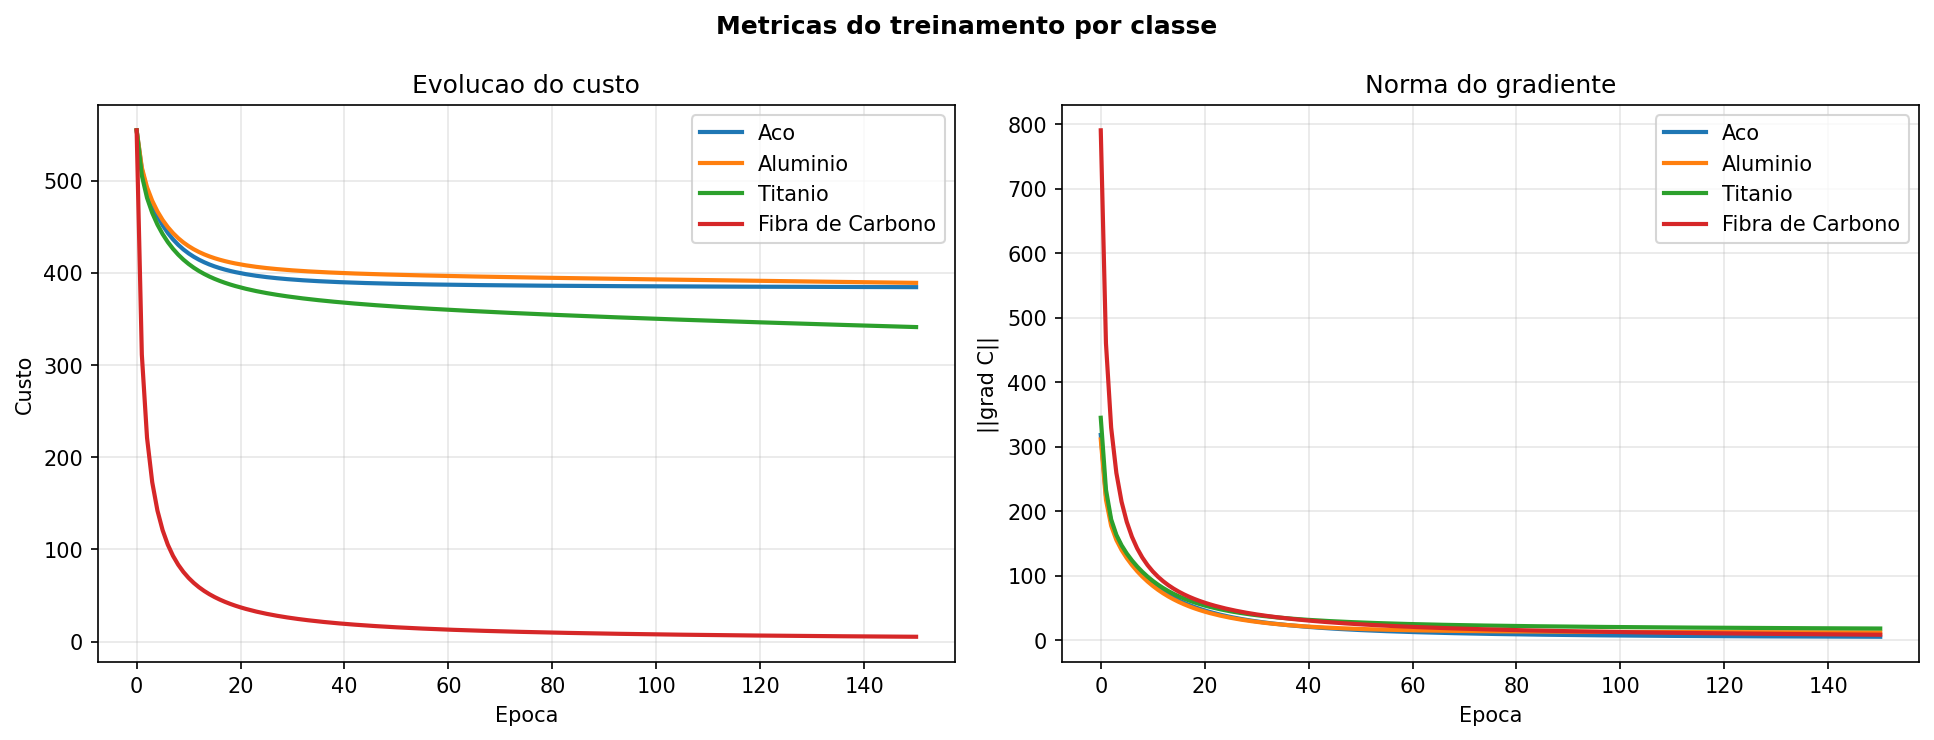
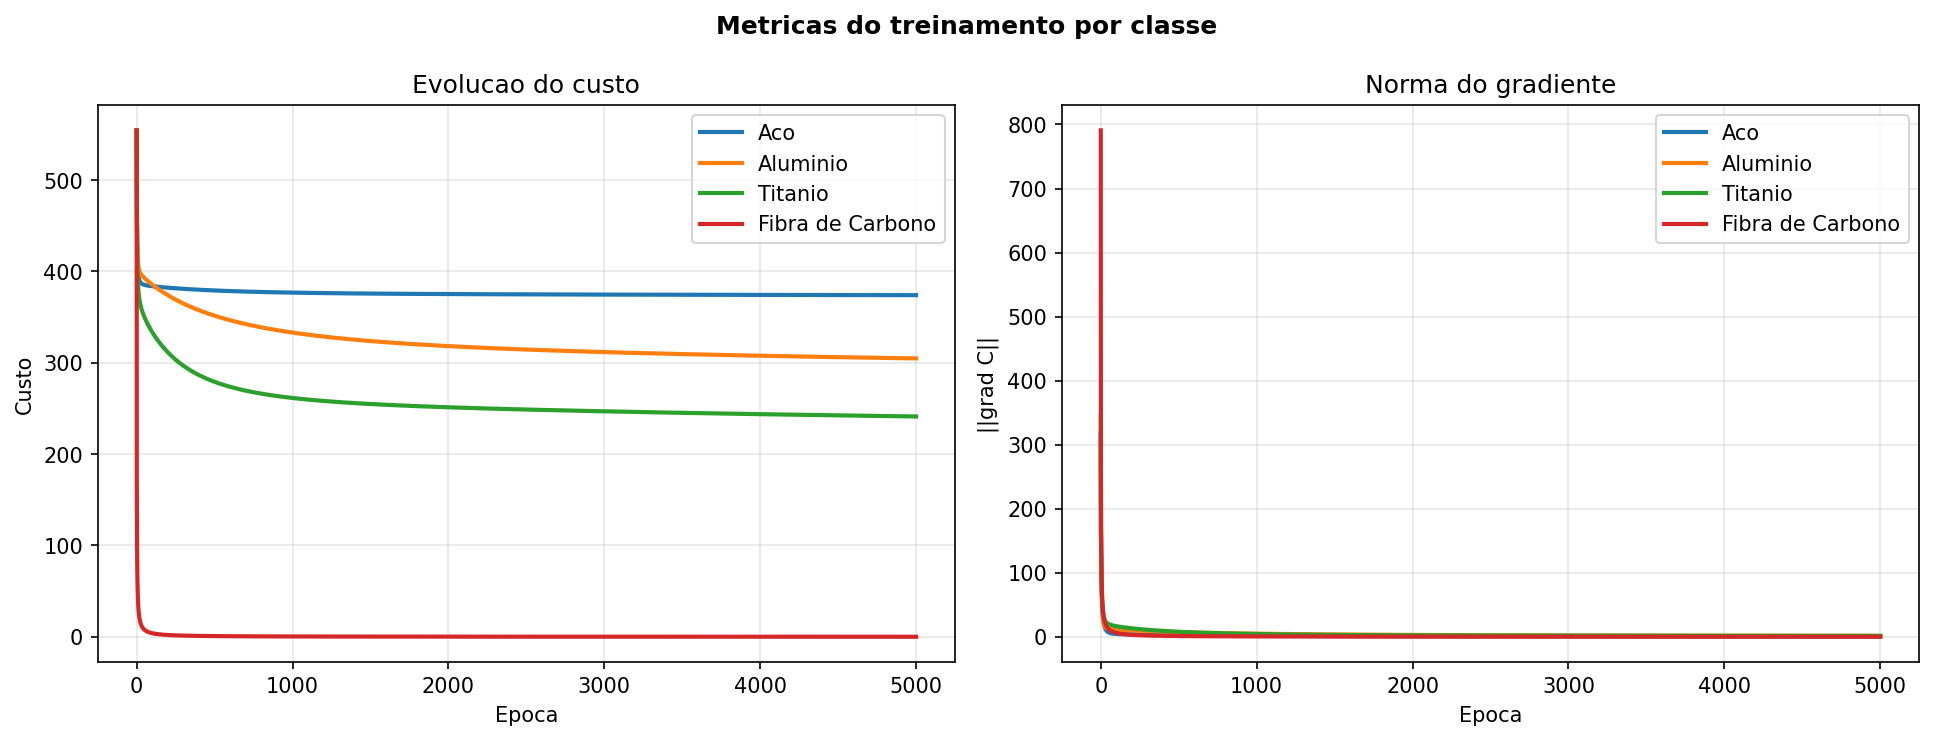
adicionada visualização dos gradientes + todos os pesos para cada material + otimização geral do código

diff --git a/visualizacao_perceptron.py b/visualizacao_perceptron.py
@@ -89,46 +89,83 @@ def plotar_metricas(
     return fig, (ax_custo, ax_grad)
 
 
-def plotar_trajetoria_pesos(
+def plotar_componentes_gradiente(
     historico,
-    indices_pesos=(0, 1),
     nomes_features=None,
-    titulo="Trajetoria no espaco de pesos",
+    incluir_vies=True,
+    titulo="Componentes do gradiente",
     caminho_arquivo=None,
     mostrar_graficos=False,
 ):
     """
-    Plota a trajetoria de dois pesos escolhidos ao longo do treino.
+    Plota cada componente do gradiente ao longo das epocas.
+
+    Esse grafico complementa a norma do gradiente, permitindo observar
+    sinal, magnitude e ritmo de convergencia de cada derivada parcial.
     """
+    epocas = np.asarray(historico["epocas"])
+    grad_w = np.asarray(historico["grad_w"])
+
+    if grad_w.ndim != 2:
+        raise ValueError("O historico de gradientes precisa ter shape (epocas, n_features).")
+
+    nomes_componentes = _resolver_nomes_features(grad_w.shape[1], nomes_features)
+    fig, ax = plt.subplots(figsize=(9, 5.5))
+
+    if incluir_vies:
+        grad_w0 = np.asarray(historico["grad_w0"])
+        ax.plot(epocas, grad_w0, linewidth=2.2, label="grad w0")
+
+    for indice, nome in enumerate(nomes_componentes):
+        ax.plot(epocas, grad_w[:, indice], linewidth=1.8, label=f"grad {nome}")
+
+    ax.axhline(0.0, color="black", linewidth=1.0, alpha=0.45)
+    ax.set_title(titulo)
+    ax.set_xlabel("Epoca")
+    ax.set_ylabel("Valor da derivada")
+    ax.grid(True, alpha=0.3)
+    ax.legend(ncol=2 if len(nomes_componentes) <= 5 else 3, fontsize=9)
+
+    fig.tight_layout()
+    _salvar_figura(fig, caminho_arquivo, mostrar_graficos=mostrar_graficos)
+    return fig, ax
+
+
+def plotar_evolucao_pesos(
+    historico,
+    nomes_features=None,
+    incluir_vies=True,
+    titulo="Evolucao dos pesos",
+    caminho_arquivo=None,
+    mostrar_graficos=False,
+):
+    """
+    Plota todos os pesos ao longo das epocas.
+
+    Diferente da trajetoria 2D, este grafico mostra explicitamente como
+    cada parametro evolui durante o treinamento.
+    """
+    epocas = np.asarray(historico["epocas"])
     pesos = np.asarray(historico["w"])
-    idx_i, idx_j = indices_pesos
 
     if pesos.ndim != 2:
         raise ValueError("O historico de pesos precisa ter shape (epocas, n_features).")
-    if idx_i == idx_j:
-        raise ValueError("Escolha dois pesos diferentes para a trajetoria 2D.")
-    if idx_i < 0 or idx_j < 0 or idx_i >= pesos.shape[1] or idx_j >= pesos.shape[1]:
-        raise IndexError("Indices de pesos fora do intervalo valido.")
 
-    nomes_eixos = _resolver_nomes_features(pesos.shape[1], nomes_features)
-    traj_x = pesos[:, idx_i]
-    traj_y = pesos[:, idx_j]
+    nomes_componentes = _resolver_nomes_features(pesos.shape[1], nomes_features)
+    fig, ax = plt.subplots(figsize=(9, 5.5))
 
-    fig, ax = plt.subplots(figsize=(6.5, 5.5))
-    ax.plot(traj_x, traj_y, color="#1f77b4", linewidth=1.8)
-    ax.scatter(traj_x[0], traj_y[0], color="#2ca02c", s=70, label="Inicio", zorder=3)
-    ax.scatter(traj_x[-1], traj_y[-1], color="#d62728", s=70, label="Fim", zorder=3)
+    if incluir_vies:
+        vies = np.asarray(historico["w0"])
+        ax.plot(epocas, vies, linewidth=2.2, label="w0")
 
-    for k, (x_k, y_k) in enumerate(zip(traj_x, traj_y)):
-        if k in (0, len(traj_x) - 1):
-            continue
-        ax.scatter(x_k, y_k, color="#1f77b4", s=16, alpha=0.55)
+    for indice, nome in enumerate(nomes_componentes):
+        ax.plot(epocas, pesos[:, indice], linewidth=1.8, label=nome)
 
     ax.set_title(titulo)
-    ax.set_xlabel(nomes_eixos[idx_i])
-    ax.set_ylabel(nomes_eixos[idx_j])
+    ax.set_xlabel("Epoca")
+    ax.set_ylabel("Valor do parametro")
     ax.grid(True, alpha=0.3)
-    ax.legend()
+    ax.legend(ncol=2 if len(nomes_componentes) <= 5 else 3, fontsize=9)
 
     fig.tight_layout()
     _salvar_figura(fig, caminho_arquivo, mostrar_graficos=mostrar_graficos)
@@ -358,9 +395,10 @@ def _salvar_figura(fig, caminho_arquivo, mostrar_graficos=False):
 __all__ = [
     "imprimir_tabela_epocas",
     "imprimir_tabela_resumo_treino",
+    "plotar_componentes_gradiente",
+    "plotar_evolucao_pesos",
     "plotar_fronteira_decisao",
     "plotar_metricas",
-    "plotar_trajetoria_pesos",
     "treinar_com_historico",
     "treinar_multiclasse_com_historico",
 ]

diff --git a/main.py b/main.py
@@ -19,9 +19,10 @@ from perceptron import (
 )
 from visualizacao_perceptron import (
     imprimir_tabela_resumo_treino,
+    plotar_componentes_gradiente,
+    plotar_evolucao_pesos,
     plotar_fronteira_decisao,
     plotar_metricas,
-    plotar_trajetoria_pesos,
     treinar_multiclasse_com_historico,
 )
 
@@ -48,7 +49,7 @@ NOMES_FEATURES = [
     "Decaimento",
     "Energia Esp.",
 ]
-INDICES_PESOS_TRAJETORIA = (0, 1)
+INDICES_PESOS_RESUMO = (0, 1)
 
 
 def plotar_resultados(historicos, y_real, y_pred, mostrar_graficos=False):
@@ -79,7 +80,9 @@ def plotar_resultados(historicos, y_real, y_pred, mostrar_graficos=False):
     # Painel 1: mostra se o custo caiu durante o treinamento.
     for i, hist in enumerate(historicos):
         ax1.semilogy(hist, label=NOMES[i], color=cores[i], linewidth=2)
-    ax1.set_title("Evolucao do Custo Total (escala log)", fontsize=12, fontweight="bold")
+    ax1.set_title(
+        "Evolucao do Custo Total (escala log)", fontsize=12, fontweight="bold"
+    )
     ax1.set_xlabel("Iteracao", fontsize=10)
     ax1.set_ylabel("Custo C", fontsize=10)
     ax1.legend(fontsize=9)
@@ -94,7 +97,9 @@ def plotar_resultados(historicos, y_real, y_pred, mostrar_graficos=False):
     ax2.set_yticklabels(NOMES, fontsize=9)
     ax2.set_xlabel("Classe Prevista", fontsize=10)
     ax2.set_ylabel("Classe Real", fontsize=10)
-    ax2.set_title("Matriz de Confusao - Conjunto de Teste", fontsize=12, fontweight="bold")
+    ax2.set_title(
+        "Matriz de Confusao - Conjunto de Teste", fontsize=12, fontweight="bold"
+    )
 
     limiar = matriz.max() / 2 if matriz.size else 0
     for i in range(N_CLASSES):
@@ -233,8 +238,8 @@ def main(mostrar_graficos=False):
         X_tr_n,
         y_tr,
         nomes=NOMES,
-        delta=5e-4,
-        n_iter=150,
+        delta=1e-3,
+        n_iter=5000,
     )
 
     print("\n[3] Avaliando no conjunto de teste...")
@@ -261,7 +266,7 @@ def main(mostrar_graficos=False):
     imprimir_tabela_resumo_treino(
         historicos_detalhados,
         nomes=NOMES,
-        indices_pesos=INDICES_PESOS_TRAJETORIA,
+        indices_pesos=INDICES_PESOS_RESUMO,
         nomes_features=NOMES_FEATURES,
     )
 
@@ -277,12 +282,18 @@ def main(mostrar_graficos=False):
 
     for nome, hist_det in zip(NOMES, historicos_detalhados):
         nome_arquivo = nome.lower().replace(" ", "_")
-        plotar_trajetoria_pesos(
+        plotar_evolucao_pesos(
             hist_det,
-            indices_pesos=INDICES_PESOS_TRAJETORIA,
             nomes_features=NOMES_FEATURES,
-            titulo=f"Trajetoria dos pesos - {nome}",
-            caminho_arquivo=f"trajetoria_pesos_{nome_arquivo}.png",
+            titulo=f"Evolucao dos pesos - {nome}",
+            caminho_arquivo=f"evolucao_pesos_{nome_arquivo}.png",
+            mostrar_graficos=mostrar_graficos,
+        )
+        plotar_componentes_gradiente(
+            hist_det,
+            nomes_features=NOMES_FEATURES,
+            titulo=f"Componentes do gradiente - {nome}",
+            caminho_arquivo=f"componentes_gradiente_{nome_arquivo}.png",
             mostrar_graficos=mostrar_graficos,
         )
 
@@ -301,7 +312,9 @@ def main(mostrar_graficos=False):
                 mostrar_graficos=mostrar_graficos,
             )
     else:
-        print("  Fronteira de decisao nao gerada: o dataset atual possui mais de 2 features.")
+        print(
+            "  Fronteira de decisao nao gerada: o dataset atual possui mais de 2 features."
+        )
 
     print("\n" + "=" * 58)
     print("  Concluido. Verifique os arquivos .png gerados.")
